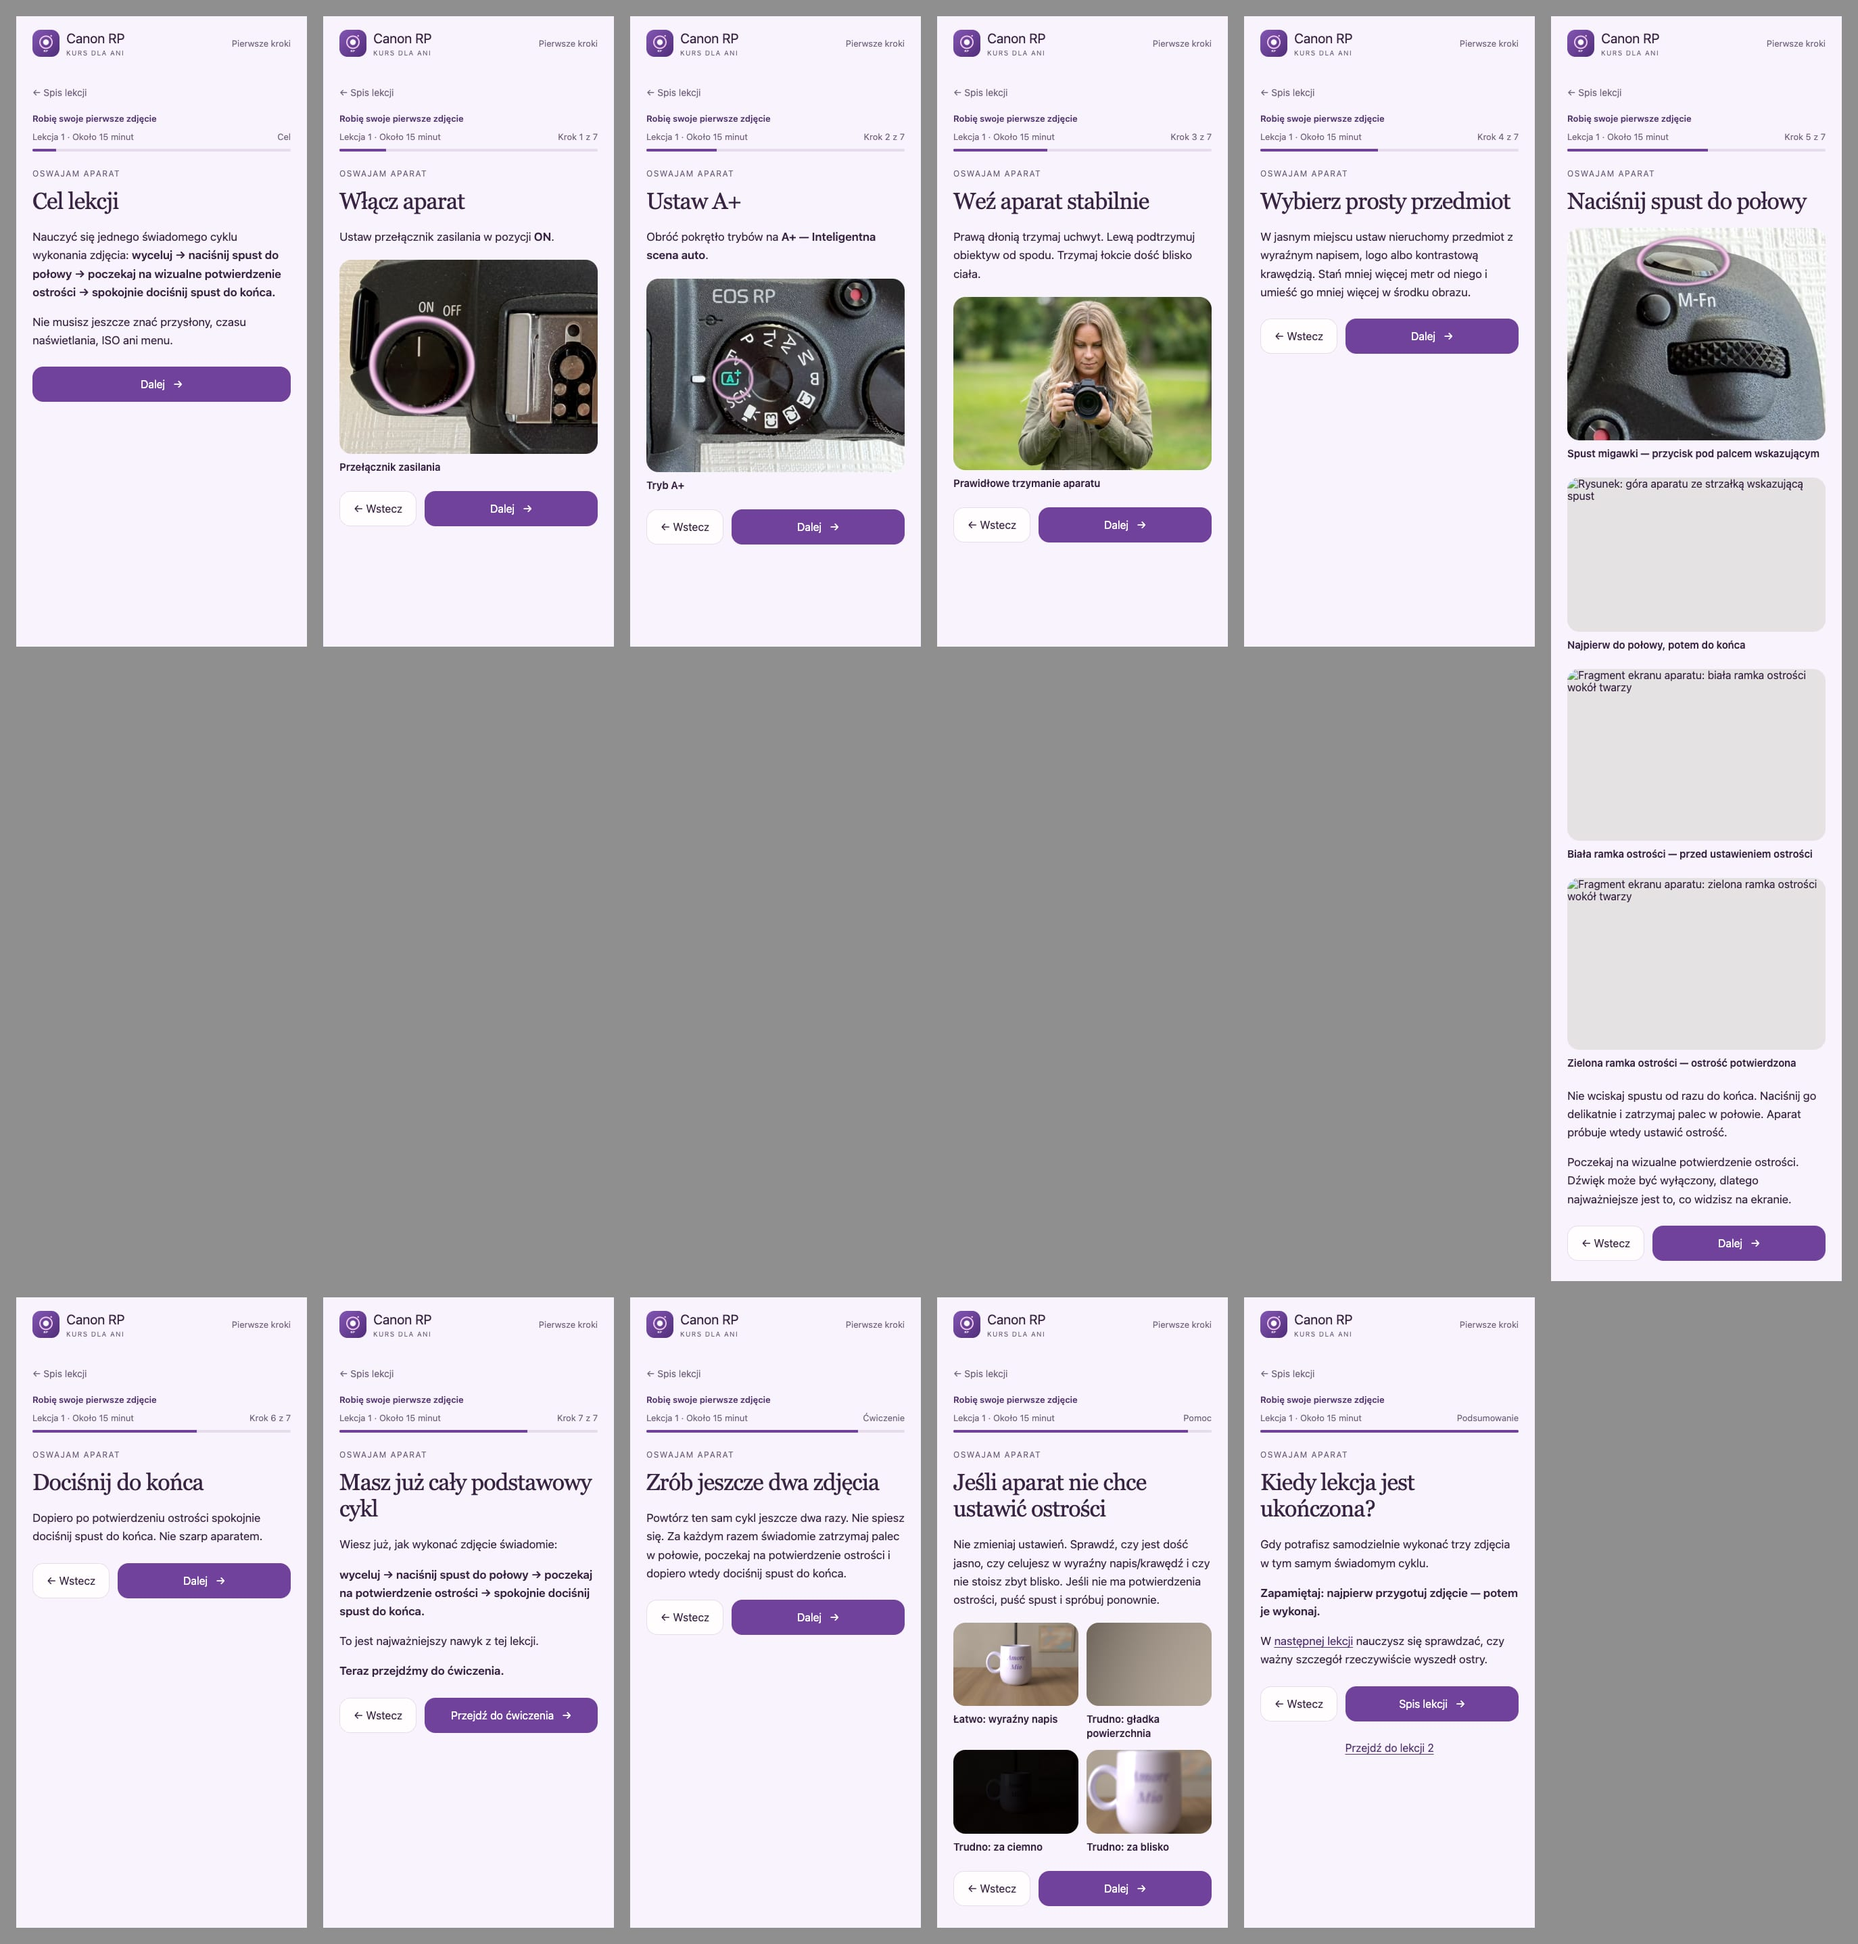
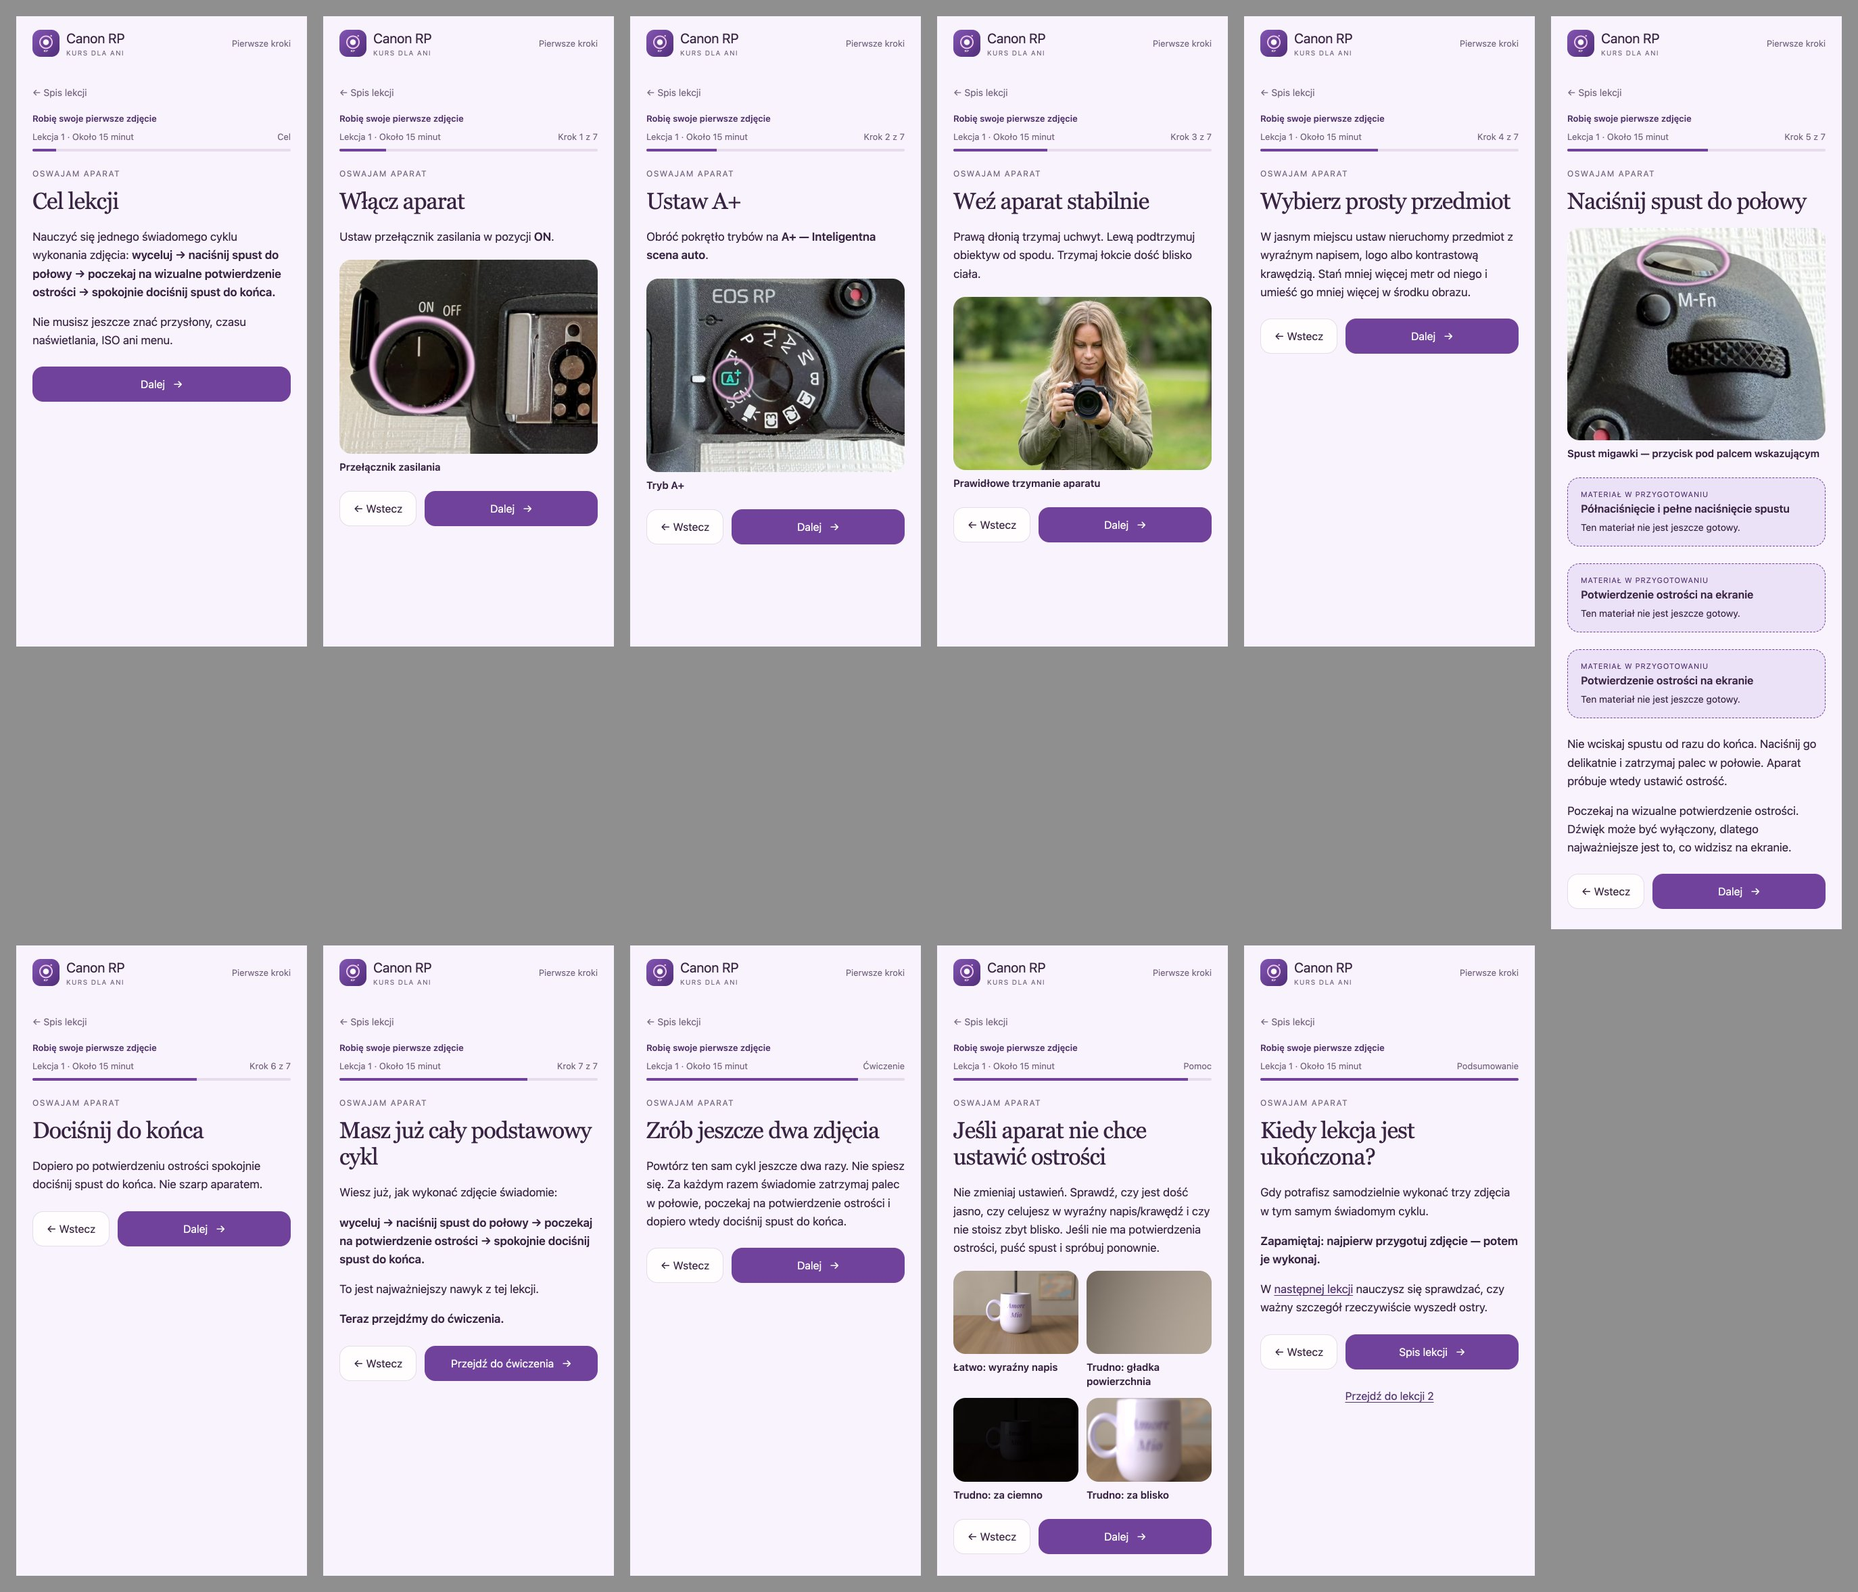
L1-01: Canon drawings local-only, placeholder in public version (D-069)
L1-01-V04 and L1-01-V05 get localOnly, as L1-04-V04. Review sheet
review/app/l1-01/arkusz.jpg recreated from the public version (D-056).

diff --git a/app/dist/lessons.js b/app/dist/lessons.js
@@ -138,6 +138,7 @@ window.CANON_LESSONS = [
         "step": "L1-01-S05",
         "title": "Półnaciśnięcie i pełne naciśnięcie spustu",
         "note": "Rysunek z instrukcji Canon (D-056, D-058); plik lokalny, do podmiany. Animacja później.",
+        "localOnly": true,
         "frames": [
           {
             "target": "./assets/lessons/l1-02/l1-02-main-dial.jpg",
@@ -169,6 +170,7 @@ window.CANON_LESSONS = [
         "step": "L1-01-S05",
         "title": "Potwierdzenie ostrości na ekranie",
         "note": "Rysunki z instrukcji Canon (D-056); pliki lokalne, do podmiany.",
+        "localOnly": true,
         "frames": [
           {
             "target": "./assets/lessons/l1-01/l1-01-v05-af-before-canon.png",
